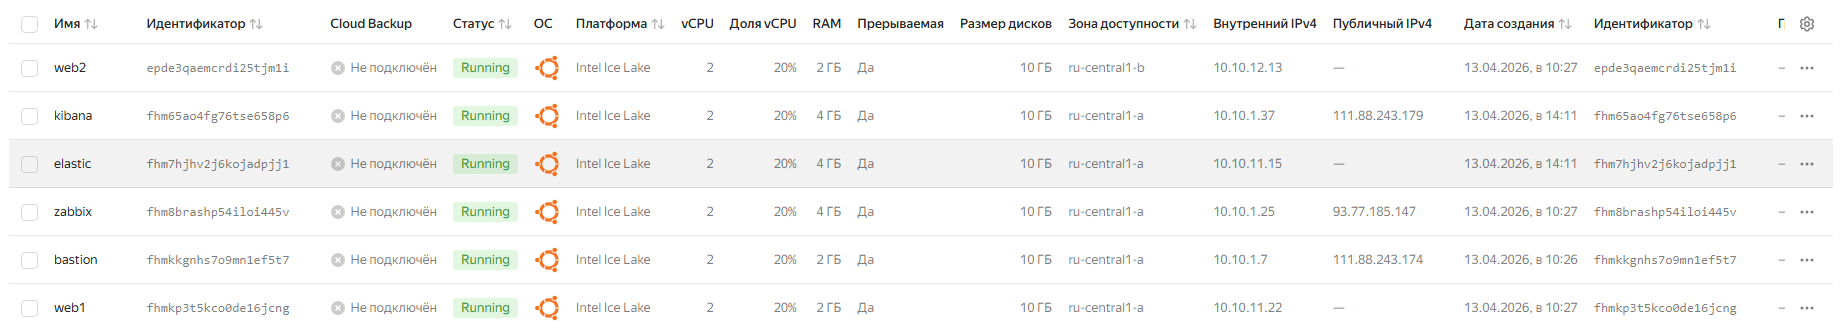
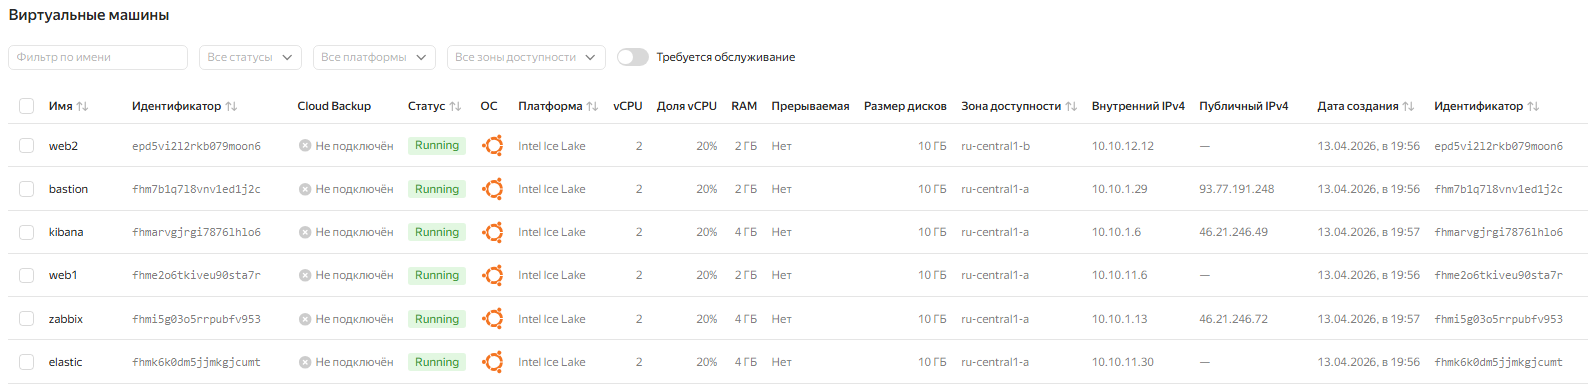
Diplom-SyS-Done

diff --git a/README.md b/README.md
@@ -145,13 +145,13 @@ Apply complete! Resources: 28 added, 0 changed, 0 destroyed.
 
 Outputs:
 
-bastion_public_ip = "111.88.243.174"
-elastic_private_ip = "10.10.11.15"
-kibana_public_ip = "111.88.243.179"
-web1_private_ip = "10.10.11.22"
-web2_private_ip = "10.10.12.13"
+bastion_public_ip = "93.77.191.248"
+elastic_private_ip = "10.10.11.30"
+kibana_public_ip = "46.21.246.49"
+web1_private_ip = "10.10.11.6"
+web2_private_ip = "10.10.12.12"
 web_lb_public_ip = "111.88.243.94"
-zabbix_public_ip = "93.77.185.147"
+zabbix_public_ip = "46.21.246.72"
 
 ```
 Вывод был сделан для личного удобства, для работы в ansible согласно заданию по fqdn именам, создаётся автоматически файл hosts.ini и перемещается в ./ansible
@@ -241,7 +241,7 @@ resource "yandex_compute_snapshot_schedule" "daily_backup_all" {
 
 ![a_zabbix](./img/IMG9.png)
 
-Переходим на http://93.77.185.147/zabbix
+Переходим на http://46.21.246.72/zabbix
 
 ![a_zabbix2](./img/IMG10.png)
 
@@ -285,7 +285,7 @@ resource "yandex_compute_snapshot_schedule" "daily_backup_all" {
 
 ![a_filebeat](./img/IMG15.png)
 
-Переходим на http://111.88.243.179:5601 для настройки Kibana(сбор логов)
+Переходим на http://46.21.246.49:5601 для настройки Kibana(сбор логов)
 
 ![kibana_options](./img/IMG16.png)
 
@@ -312,8 +312,8 @@ resource "yandex_compute_snapshot_schedule" "daily_backup_all" {
 ## Ссылки
 
 [Nginx](http://111.88.243.94/)
-[Kibana](http://111.88.243.179:5601)
-[Zabbix](http://93.77.185.147/zabbix)
+[Kibana](http://46.21.246.49:5601)
+[Zabbix](http://46.21.246.72/zabbix)
 
 
 ---
